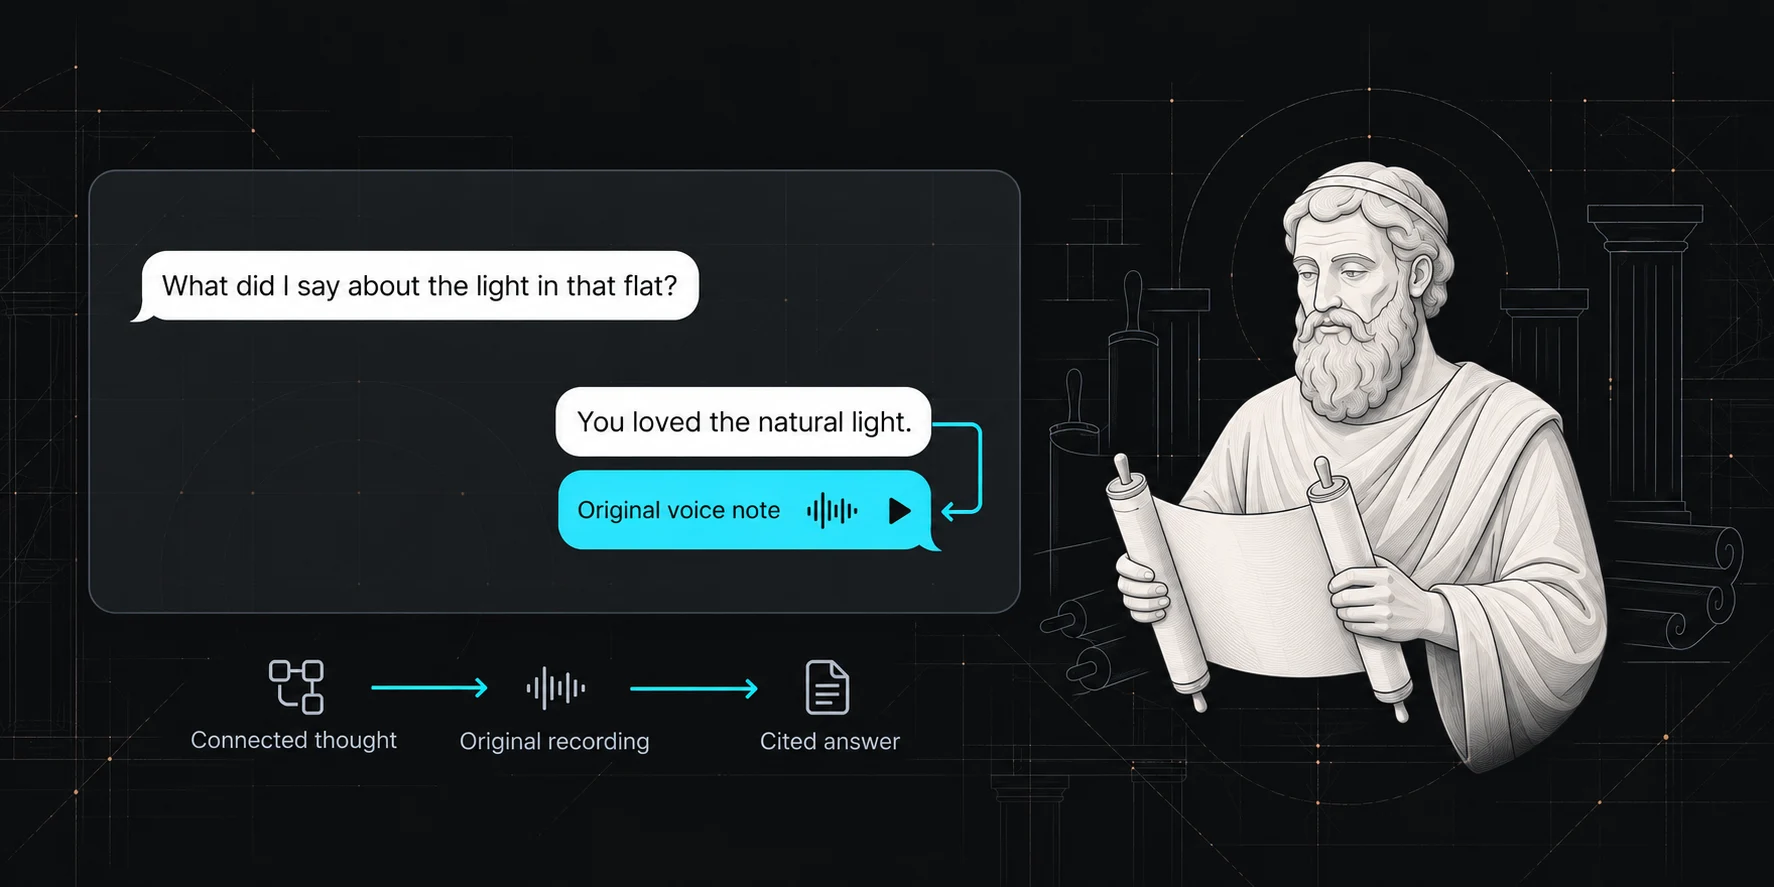
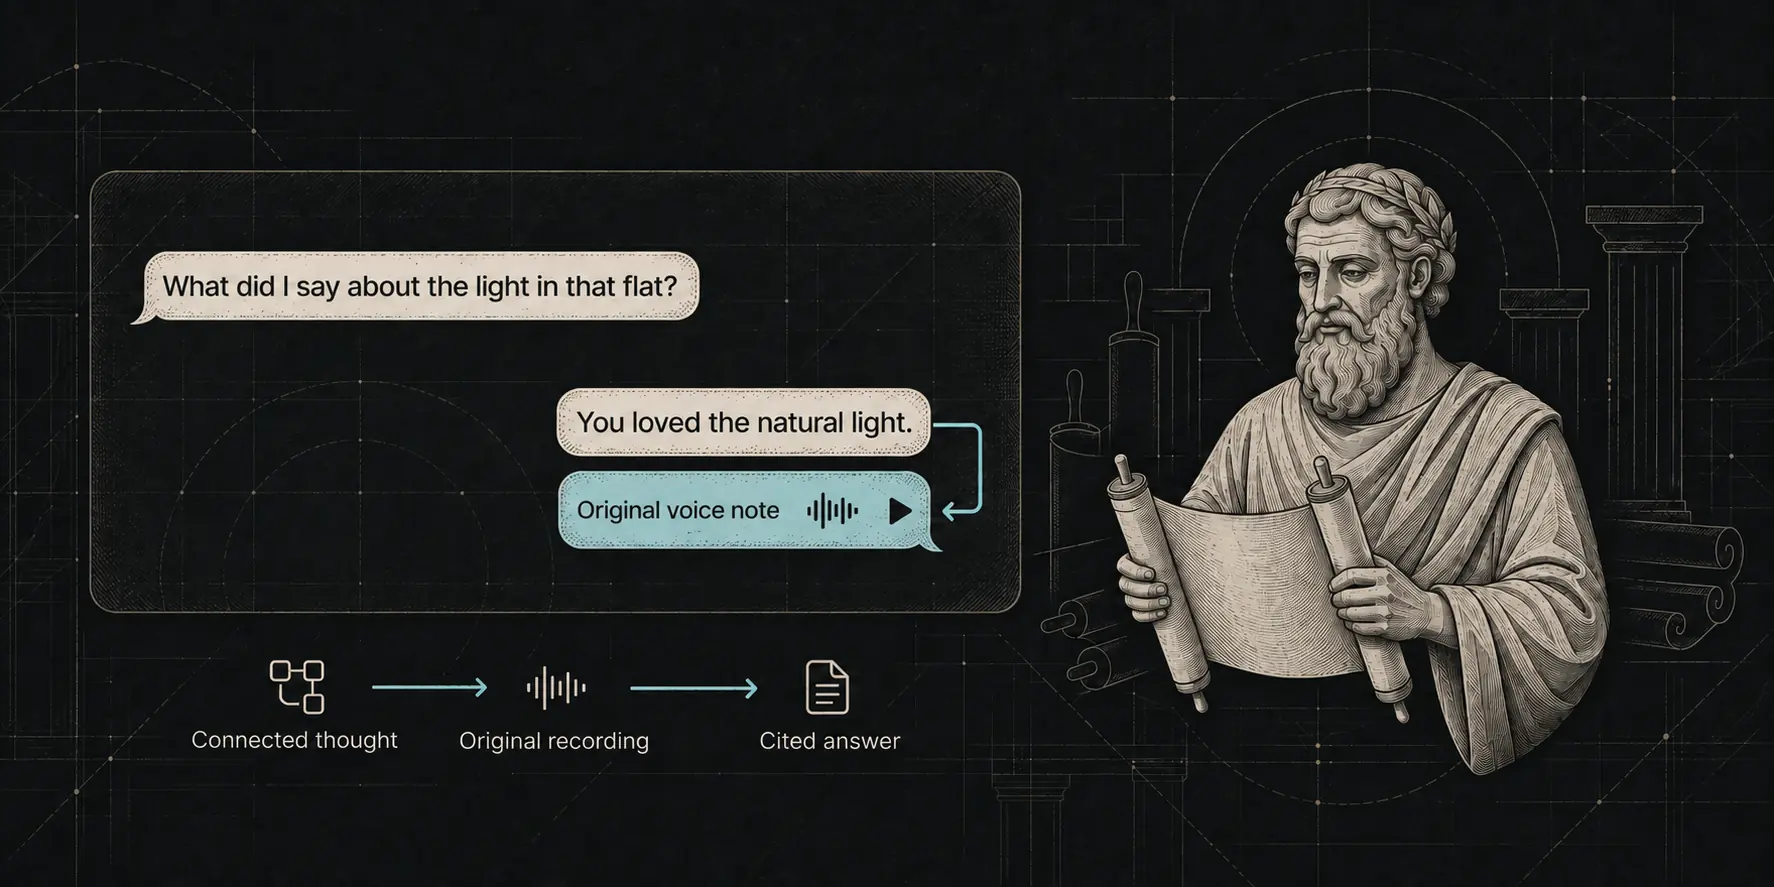
fix(site): harmonize recall and hosting art with engraved hero

diff --git a/docs/evidence/landing-story-integration/style-harmony.md b/docs/evidence/landing-story-integration/style-harmony.md
@@ -1,0 +1,17 @@
+# Recall and hosting illustration harmony
+
+Local revision, 2026-09-22. Built-in image generation edits with the unchanged hero as style reference. Replaced only `05-recall.webp`, `08-options.webp` and their responsive `-small` variants in `apps/site/src/assets/story/`. Exported with Sharp at 1774/960px, WebP quality 75, effort 6. All story assets total 1,535,340 bytes; existing 1.6MB budget unchanged. No hero, HTML, CSS, diagram wording or flow changes. Not deployed.
+
+## Recall prompt
+
+Use case: style-transfer. Image 1 is the diagram to edit; Image 2 is the unchanged hero and strict style reference. Harmonize ONLY the diagram artwork toward the hero's subdued antique copperplate engraving: dark charcoal-black background, restrained warm brass drafting lines, aged muted ivory (not pure white), fine black crosshatching and stipple, calm pale cyan accents rather than neon turquoise. The librarian must have the SAME mature Hellenic face, laurel wreath and engraved robes as the hero, not a smooth marble statue or cartoon. Preserve the target diagram's exact composition, placements, arrows, labels and meaning. Keep diagram text crisp modern sans-serif, verbatim as in Image 1. No new heading, page copy or UI. No glossy 3D, glowing edges, rounded toy features, heavy sepia wash or crushed unreadable text. Wide 2:1 diagram-only image. Preserve the chat panel left, librarian reading an open scroll on right, and three-step bottom chain. Chat text exactly: 'What did I say about the light in that flat?', 'You loved the natural light.', 'Original voice note'. Bottom text exactly: 'Connected thought', 'Original recording', 'Cited answer'. Change bright white speech bubbles to softly aged ivory, cyan audio bubble to restrained pale cyan, and rebuild the librarian in the hero's engraving style with a dignified mature face. Keep all arrows and audio symbols.
+
+## Recall final refinement
+
+Use case: style-transfer refinement. Image 1 is edited recall diagram; image 2 is the unchanged hero style reference. Keep ALL current diagram objects, placements, exact text, engraved librarian face/pose/laurel, chat bubbles, pale cyan audio bubble and arrows unchanged. ONLY quiet the decorative background to match hero: lower visibility of gold grids, circles, columns and chat-panel outline by approximately 65%, make these dark desaturated antique brass rather than orange/gold. Keep the actual words, bubbles and figure clear. Reduce yellow warmth in the figure and ivory speech bubbles slightly toward the hero's neutral stone-ivory. Do not add anything. Same wide 2:1 composition. A restrained charcoal and ivory engraved illustration with small pale cyan accents, not a glowing golden chart.
+
+## Hosting prompt
+
+Use case: style-transfer. Image 1 is the diagram to edit; Image 2 is the unchanged hero and strict style reference. Harmonize ONLY the diagram artwork toward the hero's subdued antique copperplate engraving: dark charcoal-black background, restrained warm brass drafting lines, aged muted ivory (not pure white), fine black crosshatching and stipple, calm pale cyan accents rather than neon turquoise. The librarian must have the SAME mature Hellenic face, laurel wreath and engraved robes as the hero, not a smooth marble statue or cartoon. Preserve the target diagram's exact composition, placements, arrows, labels and meaning. Keep diagram text crisp modern sans-serif, verbatim as in Image 1. No new heading, page copy or UI. No glossy 3D, glowing edges, rounded toy features, heavy sepia wash or crushed unreadable text. Wide 2:1 diagram-only image. Preserve both hosting and storage bands exactly with every existing label and logo. Upper band: 'Where it runs', 'Same open-source engine', 'Self-hosted', 'Your server', 'Hosted', 'Managed service'. Lower: 'Where your library lives', 'GitHub', 'Self-hosted or Hosted', 'or', 'Google Drive', 'Hosted'. Keep recognizable logo colors. Replace shiny white bust with the exact hero's laurel-wearing engraved librarian, aged neutral ivory with black etched shadows. Render server/cloud as fine engraved icons, not plastic 3D. IMPORTANT: keep background drafting lines VERY faint, roughly 10% contrast, not bright gold; hero has subtle recessed background, not a busy golden chart. Pale cyan routes remain visible. Keep label tabs charcoal with ivory lettering instead of pale blue. Palette mostly charcoal and neutral aged ivory, tiny brass accents only. Preserve spacious composition.
+
+Validation: 17 site tests and build pass, including unchanged-hero regression checks. Both replacements inspected in the running local landing preview.

diff --git a/docs/EPIC-ZENOD-LANDING-STORY.md b/docs/EPIC-ZENOD-LANDING-STORY.md
@@ -19,13 +19,13 @@ Pinned base: 99f9f228285053d1354474b089691d86fe090fef for the 2026-09-22 local i
 ## Current State
 
 Owner: /root landing-story integration worker
-Status: done
-Last attempted: deployed the exact user-approved landing source `c1d835774aaccbc3accc764738e47871c23ad107` to public Zenod on 2026-09-22
+Status: review
+Last attempted: harmonized recall and hosting artwork locally toward the unchanged hero on 2026-09-22; muted ivory/cyan and classical engraving replace bright white/smooth figures
 Result: all ten diagram-led chapters and the corrected Hellenic capture/MCP illustration are live at https://zenod.dev/; original hero preserved. No other service deployment or non-SHA environment/mount changes.
 Evidence: [production receipt](evidence/landing-story-integration/production.md); CI/image publication pass; 17 site tests and build pass; exact running image/OCI/health and live browser desktop/mobile checks verified
-Waiting on: nothing for this approved landing deployment
+Waiting on: visual review and exact-version deployment approval for the new illustration-only revision; the prior landing remains live
 Approved work: Jordi explicitly approved public deployment of exact source c1d8357; no changed price, signup settings, credentials, billing or unrelated-service deployment
-Next action: observe the official landing; further illustration refinements only on request
+Next action: review the [style harmony revision](evidence/landing-story-integration/style-harmony.md) in the local preview; publish only after a new exact-version approval
 Source revision: deployed `c1d835774aaccbc3accc764738e47871c23ad107`; PR #1364 merged as `60239a3a51c1577302c7483ed390314b28e76c41`; prior live `99f9f228285053d1354474b089691d86fe090fef`
 Verified at: 2026-09-22 03:06 UTC
 
